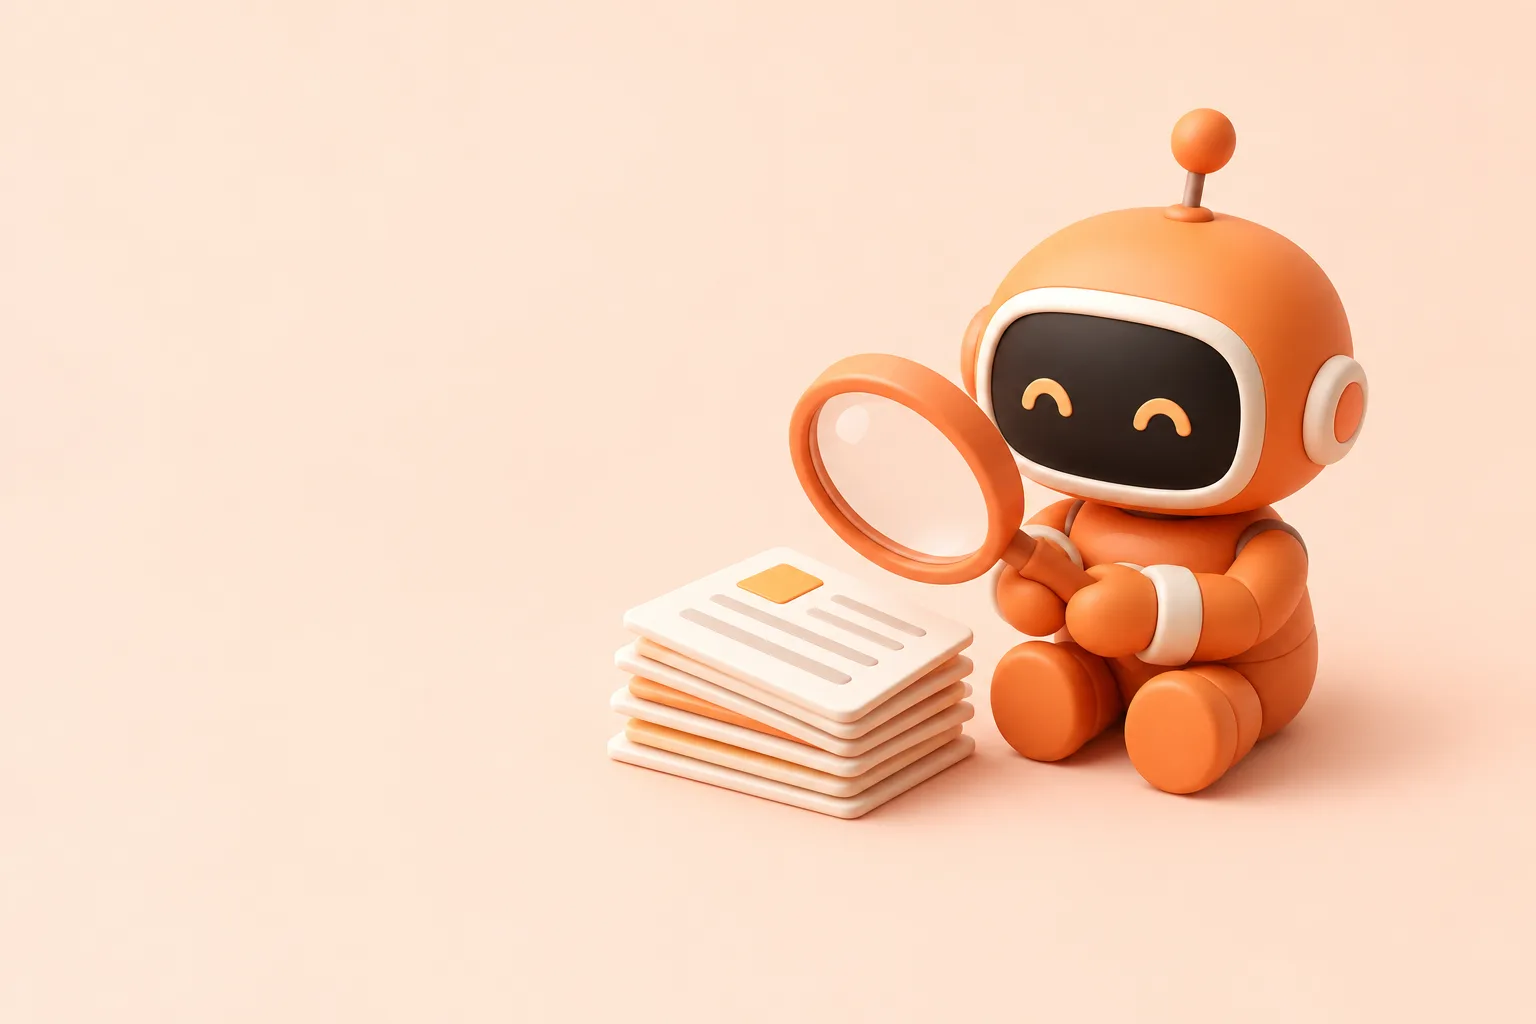
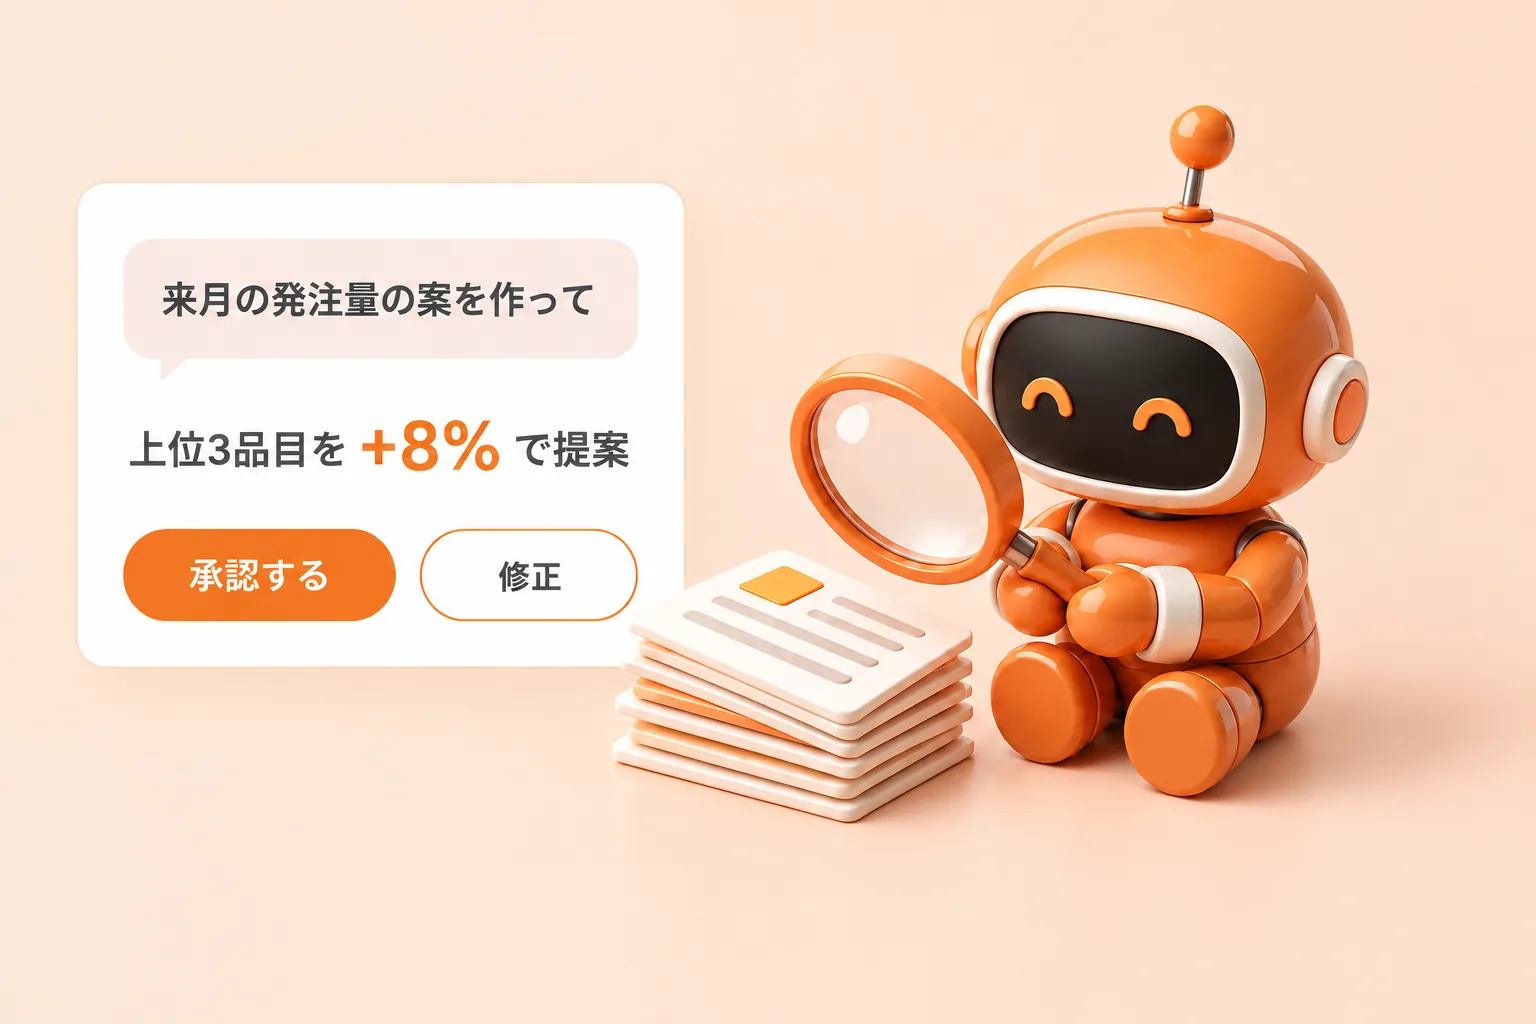
feat(ai): 画面カードを画像に描き込み、立体の質感を粘土からつやのある素材へ
- エージェント・導入支援・AIサービスの3枚を、フラットなアプリ画面風のカードごと画像生成に差し替え
- ロボット・階段・ヒーローを粘土ではなく硬いつやのある質感に作り直し
- HTML のカードと関連 CSS を削除し、カードの中身は alt に記載

diff --git a/app/globals.css b/app/globals.css
@@ -1048,7 +1048,6 @@ p, dd, li { text-wrap: pretty; }
 .mock-h { font-size: 12px; }
 .mock-row-between { display: flex; justify-content: space-between; align-items: center; gap: 8px; }
 .mock-btn { padding: 4px 9px; border-radius: var(--radius-button); background: var(--color-warm-strong); color: #fff; font-weight: 700; white-space: nowrap; }
-.mock-btn.is-ghost { background: transparent; color: var(--color-ink); box-shadow: inset 0 0 0 1px var(--color-line); }
 .mock-tag { display: inline-block; padding: 1px 6px; border-radius: var(--radius-label); background: var(--warm-soft); color: var(--color-warm-ink); font-weight: 700; white-space: nowrap; }
 .mock-tag.is-done { background: #e7f5ec; color: #1f7a45; }
 .mock-pass { color: #1f7a45; font-weight: 800; }
@@ -1097,22 +1096,6 @@ p, dd, li { text-wrap: pretty; }
 .mock-case { display: grid; grid-template-columns: 54px 1fr 64px 40px; align-items: center; padding: 6px 0; border-bottom: 1px solid var(--color-line); }
 
 /* AI */
-.mock-chat { display: grid; gap: 10px; }
-.mock-msg { max-width: 82%; padding: 9px 12px; border-radius: 12px; line-height: 1.7; }
-.mock-msg.is-user { justify-self: end; background: var(--color-ink); color: #fff; }
-.mock-msg.is-ai { display: grid; gap: 6px; background: #f5f3ee; }
-.mock-steps { display: grid; gap: 2px; color: var(--color-muted); }
-.mock-source { color: var(--color-warm-ink); font-family: var(--font-mono); font-size: 8.5px; }
-.mock-approve { display: flex; align-items: center; gap: 8px; padding: 10px 12px; border: 1px solid var(--warm-line); border-radius: 10px; background: #fffaf5; }
-.mock-approve > span:first-child { flex: 1; font-weight: 700; }
-.mock-fields { display: grid; grid-template-columns: repeat(4, 1fr); gap: 8px; margin-top: 10px; }
-.mock-fields span { display: grid; padding: 7px 9px; border: 1px solid var(--color-line); border-radius: 7px; background: #fff; font-weight: 700; }
-.mock-fields small { color: var(--color-muted); font-weight: 400; }
-.mock-match { display: grid; gap: 7px; margin-top: 12px; }
-.mock-match div { display: grid; grid-template-columns: 60px 44px 1fr; align-items: center; padding: 9px 10px; border: 1px solid var(--color-line); border-radius: 8px; background: #fff; }
-.mock-match div:first-child { box-shadow: inset 3px 0 0 var(--color-warm-strong); }
-.mock-score { font-family: var(--font-en); font-size: 15px; font-weight: 800; color: var(--color-warm-strong); }
-.mock-match small { color: var(--color-body); }
 
 /* 配置（キャンバス 640×440 の中） */
 .mock-at-dev-laptop { left: 0; top: 14px; width: 548px; }
@@ -1192,13 +1175,6 @@ p, dd, li { text-wrap: pretty; }
 .mock-bug b { font-family: var(--font-mono); font-size: 8.5px; letter-spacing: .08em; opacity: .85; }
 
 
-.mock-plan { display: grid; gap: 8px; margin-top: 8px; }
-.mock-plan-row { display: grid; grid-template-columns: 64px 1fr; align-items: center; }
-.mock-plan-track { position: relative; height: 10px; border-radius: 5px; background: #f3f1ec; }
-.mock-plan-track i { position: absolute; top: 0; height: 100%; border-radius: 5px; background: var(--color-warm-strong); }
-.mock-plan-track i.is-dark { background: var(--color-ink); }
-.mock-plan-months { display: grid; grid-template-columns: 64px 1fr 1fr 1fr; color: var(--color-muted); }
-.mock-plan-months span:first-child { grid-column: 2; }
 
 
 @media (max-width: 899px) {
@@ -1238,23 +1214,10 @@ p, dd, li { text-wrap: pretty; }
 .mock-servers div { display: flex; justify-content: space-between; padding: 5px 8px; border: 1px solid rgb(255 255 255 / 12%); border-radius: 7px; color: rgb(255 255 255 / 80%); }
 .mock-ok { color: #4cc27c; font-weight: 700; }
 
-/* AI：立体イラスト（色の面）に小さな画面のカードを1枚重ねる（components/business/ScreenMocks.tsx の ToyScene） */
-.toy-scene { position: relative; overflow: hidden; aspect-ratio: 3 / 2; border-radius: 18px; }
-.toy-scene-img { position: absolute; inset: 0; width: 100%; height: 100%; object-fit: cover; }
-.toy-scene-label { position: absolute; left: 22px; top: 20px; font-family: var(--font-mono); font-size: 11px; letter-spacing: .14em; color: var(--color-ink); opacity: .65; }
-.toy-scene-card { position: absolute; left: 22px; bottom: 22px; width: 54%; overflow: hidden; border-radius: 12px; background: #fff; font-size: 9.5px; line-height: 1.5; color: var(--color-ink); }
-.toy-scene-card i { font-style: normal; }
-.toy-scene-card .mock-win-body { padding: 12px 14px; }
-.toy-scene-card .mock-msg { max-width: 92%; padding: 7px 10px; }
-.toy-scene.is-center .toy-scene-card { left: 50%; top: 50%; bottom: auto; width: 62%; translate: -50% -50%; }
-.toy-scene-card .mock-fields { grid-template-columns: 1fr 1fr; }
-/* スマホ：カードでイラストを隠さないよう、イラストの下にカードを少し重ねて置く */
-@media (max-width: 640px) {
-  .toy-scene { aspect-ratio: auto; overflow: visible; border-radius: 0; }
-  .toy-scene-img { position: static; height: auto; aspect-ratio: 3 / 2; border-radius: 14px; }
-  .toy-scene-card, .toy-scene.is-center .toy-scene-card { position: relative; left: auto; top: auto; bottom: auto; width: auto; translate: none; margin: -36px 12px 0; font-size: 9px; }
-  .toy-scene-card .mock-win-bar { display: none; }
-}
+/* AI：立体イラスト（画面のカードも画像に描き込み済み。components/business/ScreenMocks.tsx の ToyScene） */
+.toy-scene { overflow: hidden; aspect-ratio: 3 / 2; border-radius: 18px; }
+.toy-scene-img { display: block; width: 100%; height: 100%; object-fit: cover; }
+@media (max-width: 640px) { .toy-scene { border-radius: 14px; } }
 /* AI：NOVA の帯。左（文章側）は黒のまま、右にオレンジのリボンを敷く */
 .nova-band { background: linear-gradient(90deg, var(--color-ink) 0%, var(--color-ink) 34%, rgb(20 20 15 / 55%) 60%, rgb(20 20 15 / 0%) 100%), url(/business-ai-ribbon-dark.webp) right center / auto 135% no-repeat, var(--color-ink); }
 @media (max-width: 1023px) { .nova-band { background: linear-gradient(180deg, var(--color-ink) 0%, var(--color-ink) 55%, rgb(20 20 15 / 40%) 100%), url(/business-ai-ribbon-dark.webp) center bottom / 160% auto no-repeat, var(--color-ink); } }

diff --git a/components/business/ScreenMocks.tsx b/components/business/ScreenMocks.tsx
@@ -49,17 +49,13 @@ function Win({ title, children, className = "", dark = false }: { title: string;
 }
 
 /**
- * 立体イラスト（色の面）に、小さな画面のカードを1枚重ねる（AI ページ用）。
- * イラストは画像、カードは HTML。center はカードを中央に置く（リボンの背景のとき）。
+ * AI ページの立体イラスト。画面のカードも画像生成で描き込んである（2026-11-18 オーナー判断）。
+ * 画像の中の文字は読み上げられないので、alt にカードの中身まで書く。
  */
-function ToyScene({ src, alt, label, center = false, children }: { src: string; alt: string; label?: string; center?: boolean; children: ReactNode }) {
+function ToyScene({ src, alt }: { src: string; alt: string }) {
   return (
-    <div className={`toy-scene ${center ? "is-center" : ""}`}>
+    <div className="toy-scene">
       <Image src={src} alt={alt} width={1536} height={1024} sizes="(min-width: 900px) 55vw, 100vw" className="toy-scene-img" />
-      {label && <span className="toy-scene-label" aria-hidden>{label}</span>}
-      <div className="toy-scene-card mock-shadow" aria-hidden>
-        {children}
-      </div>
     </div>
   );
 }
@@ -234,74 +230,27 @@ export function QaScreens() {
 
 export function AgentScreens() {
   return (
-    <ToyScene src="/business-ai-agent.webp" alt="ロボットが虫めがねで書類を調べる立体イラスト" label="AI AGENT">
-      <div className="mock-win-bar">
-        <i />
-        <i />
-        <i />
-        <span>ai-agent / 業務アシスタント</span>
-      </div>
-      <div className="mock-win-body mock-chat">
-        <p className="mock-msg is-user">来月の発注量の案を作ってください。</p>
-        <div className="mock-msg is-ai">
-          <span className="mock-steps">
-            <i>✓ 受注データを取得（12,480件）</i>
-            <i>✓ 社内規程「発注基準」を参照</i>
-          </span>
-          上位3品目は前月比 +8% で案を作りました。
-        </div>
-        <div className="mock-approve">
-          <span>購買部へ送信しますか？</span>
-          <span className="mock-btn">承認する</span>
-        </div>
-      </div>
-    </ToyScene>
+    <ToyScene
+      src="/business-ai-agent.webp"
+      alt="ロボットが虫めがねで書類を調べるイラスト。画面のカードには「来月の発注量の案を作って」という依頼と、「上位3品目を +8% で提案」という答え、「承認する」「修正」のボタンが並ぶ"
+    />
   );
 }
 
 export function EnablementScreens() {
   return (
-    <ToyScene src="/business-ai-enable.webp" alt="旗の立った階段の立体イラスト" label="AI ENABLEMENT">
-      <div className="mock-win-body">
-        <b className="mock-h">導入計画</b>
-        <div className="mock-plan">
-          <div className="mock-plan-row"><span>業務整理</span><span className="mock-plan-track"><i style={{ left: "0%", width: "34%" }} /></span></div>
-          <div className="mock-plan-row"><span>小さく試す</span><span className="mock-plan-track"><i style={{ left: "30%", width: "38%" }} /></span></div>
-          <div className="mock-plan-row"><span>社内展開</span><span className="mock-plan-track"><i className="is-dark" style={{ left: "62%", width: "38%" }} /></span></div>
-          <div className="mock-plan-months"><span>1月</span><span>2月</span><span>3月</span></div>
-        </div>
-      </div>
-    </ToyScene>
+    <ToyScene
+      src="/business-ai-enable.webp"
+      alt="旗の立った3段の階段のイラスト。カードには「業務を整理（完了）」「小さく試す（いまここ）」「社内に広げる」の3つの段階が並ぶ"
+    />
   );
 }
 
 export function ProductScreens() {
   return (
-    <ToyScene src="/business-ai-ribbon.webp" alt="オレンジのリボンの立体グラフィック" center>
-      <div className="mock-win-body">
-        <div className="mock-row-between">
-          <b className="mock-h">案件　物流システム</b>
-          <span className="mock-tag">メールから自動で構造化</span>
-        </div>
-        <div className="mock-fields">
-          <span><small>言語</small>Java・Spring</span>
-          <span><small>期間</small>2月〜</span>
-          <span><small>場所</small>リモート併用</span>
-          <span><small>人数</small>2名</span>
-        </div>
-        <div className="mock-match">
-          {[
-            ["候補 A", "92", "Java 7年・物流の経験あり"],
-            ["候補 B", "85", "2月から参画できる"],
-          ].map(([n, sc, why]) => (
-            <div key={n}>
-              <b>{n}</b>
-              <span className="mock-score">{sc}</span>
-              <small>{why}</small>
-            </div>
-          ))}
-        </div>
-      </div>
-    </ToyScene>
+    <ToyScene
+      src="/business-ai-ribbon.webp"
+      alt="オレンジのリボンの上に、新着の案件にぴったりの人を示すカード。適合度92点の「候補 A」、Java 7年・物流の経験"
+    />
   );
 }
